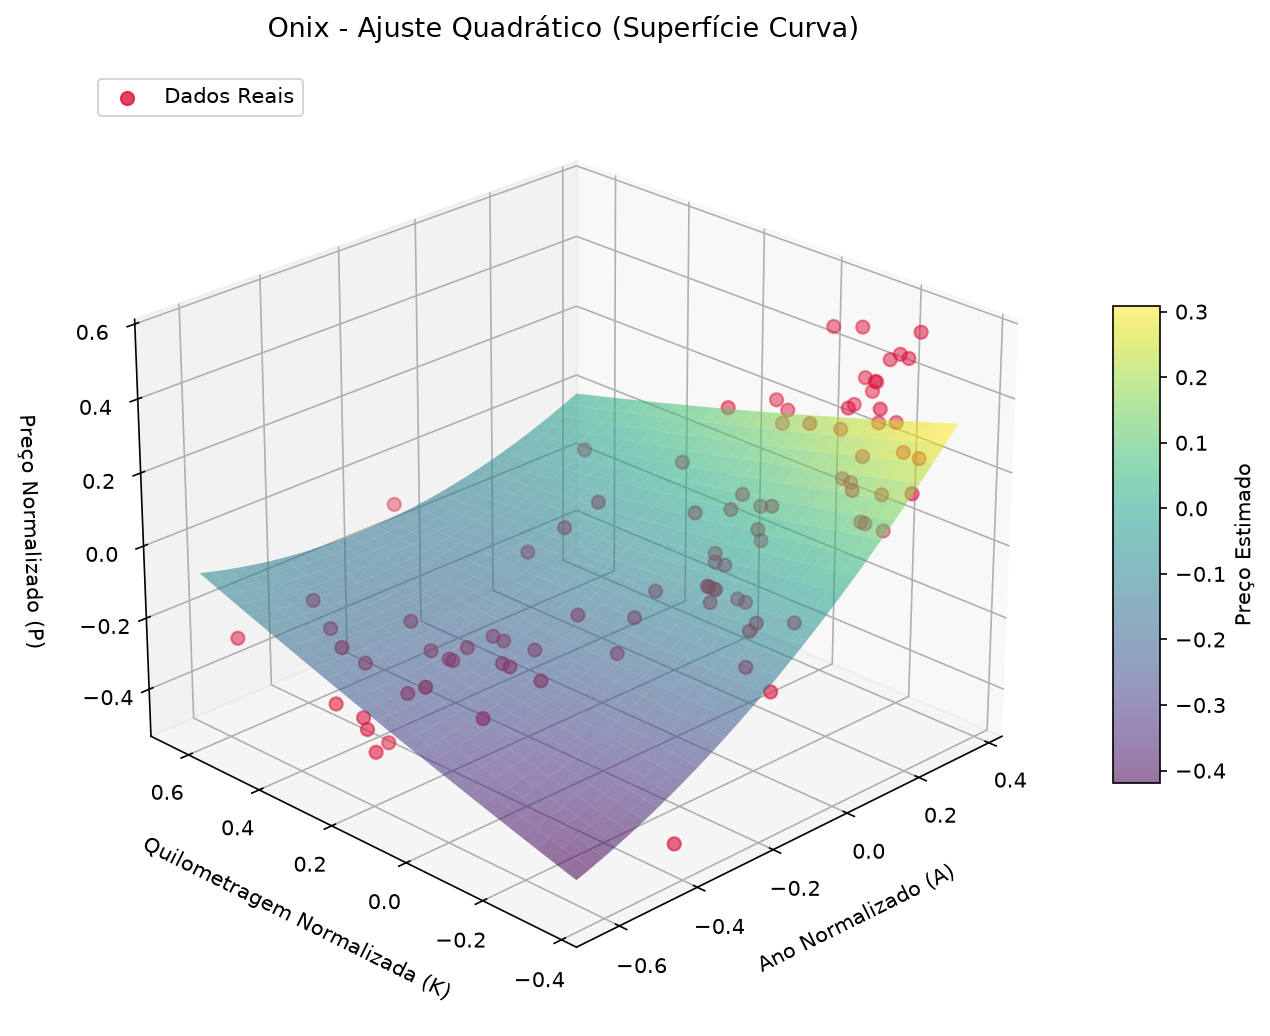
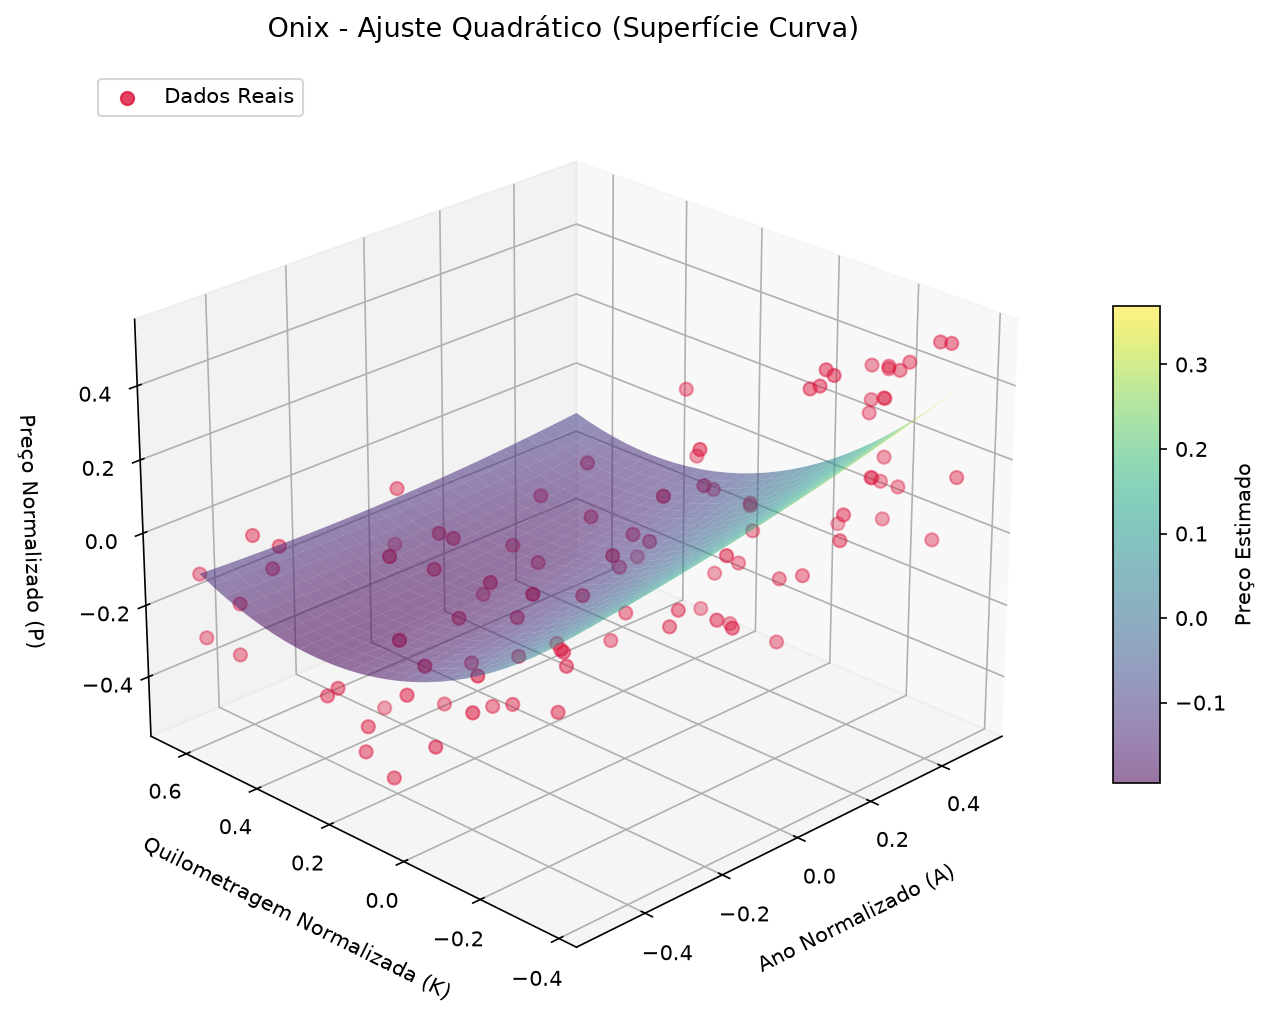
Dados novos do Onix (100 anúncios) e ajustes no backend
- dados/onix.csv com os 100 anúncios da planilha (2021-2025)
- gráficos do Onix refeitos com os dados novos
- grau passado como 1/2 em vez de 'lin'/'quad'
- upload recusa CSV com nome repetido (409)

diff --git a/backend/relatorio.py b/backend/relatorio.py
@@ -27,7 +27,8 @@ from preco_de_mercado import desnormalize_values, estima_preco
 
 RAIZ = Path(__file__).resolve().parent.parent
 PASTA_GRAFICOS = RAIZ / "graficos"
-MODELOS = [('lin', 'linear'), ('quad', 'quadrático')]
+# (grau do polinômio, sufixo dos arquivos de gráfico, nome do modelo)
+MODELOS = [(1, 'lin', 'linear'), (2, 'quad', 'quadrático')]
 
 
 def moeda(valor):
@@ -79,20 +80,22 @@ def normaliza_matriz(dados):
     return data
 
 
-def matriz_planejamento(A, K, tipo):
-    """Matriz X do ajuste: [1 | A | K] no linear e [1 | A | K | A² | AK | K²] no quadrático."""
-    if tipo == 'lin':
-        return np.column_stack((np.ones_like(A), A, K))
-    return np.column_stack((np.ones_like(A), A, K, A**2, A * K, K**2))
+def matriz_planejamento(A, K, grau):
+    """
+    Matriz X do ajuste de grau n, na mesma ordem de mq.solucao_sistema:
+    [1 | A | K] no grau 1, [1 | A | K | A² | AK | K²] no grau 2, e assim por diante.
+    """
+    colunas = [(A ** (d - j)) * (K ** j) for d in range(grau + 1) for j in range(d + 1)]
+    return np.column_stack(colunas)
 
 
-def depreciacao(ano, km, c, tipo, data):
+def depreciacao(ano, km, c, grau, data):
     """Queda de preço (R$ e %) do carro (ano, km) com +8000 km, +10000 km e 1 ano a mais de idade."""
-    atual = estima_preco(ano, km, c, tipo, data)
+    atual = estima_preco(ano, km, c, grau, data)
     quedas = {
-        '+8000 km': atual - estima_preco(ano, km + 8000, c, tipo, data),
-        '+10000 km': atual - estima_preco(ano, km + 10000, c, tipo, data),
-        '1 ano mais velho': atual - estima_preco(ano - 1, km, c, tipo, data),
+        '+8000 km': atual - estima_preco(ano, km + 8000, c, grau, data),
+        '+10000 km': atual - estima_preco(ano, km + 10000, c, grau, data),
+        '1 ano mais velho': atual - estima_preco(ano - 1, km, c, grau, data),
     }
     return atual, {nome: (queda, 100 * queda / atual) for nome, queda in quedas.items()}
 
@@ -102,7 +105,7 @@ def relatorio(dados, nome='carro', ano_carro=None, km_carro=None, pasta=PASTA_GR
     Roda os itens 2 a 7 do projeto para a matriz `dados` (colunas: ano, km, preco).
 
     ano_carro, km_carro -> carro avaliado nos itens 6 e 7. Se omitidos, usa o carro médio da amostra.
-    Retorna um dicionário com os resultados de cada modelo ('lin' e 'quad').
+    Retorna um dicionário com os resultados de cada modelo, indexado pelo grau (1 e 2).
     """
     dados = np.asarray(dados, dtype=float)
     pasta = Path(pasta)
@@ -141,13 +144,13 @@ def relatorio(dados, nome='carro', ano_carro=None, km_carro=None, pasta=PASTA_GR
         descricao_carro = f"ano-modelo {ano_formatado(ano_carro)} com {inteiro(km_carro)} km"
 
     resultados = {}
-    for tipo, nome_modelo in MODELOS:
+    for grau, sufixo, nome_modelo in MODELOS:
         print("\n" + "-" * largura)
         print(f"{'MODELO ' + nome_modelo.upper():^72}")
         print("-" * largura)
 
         # PASSO 3: sistema linear (equações normais) e solução
-        M, b, c = mq.solucao_sistema(data['ano'], data['km'], data['preco'], tipo)
+        M, b, c = mq.solucao_sistema(data['ano'], data['km'], data['preco'], grau)
         print("\nPASSO 3 - SISTEMA DE EQUAÇÕES NORMAIS")
         print("  (X^T X) c = X^T y")
         print("  M = X^T X")
@@ -156,11 +159,11 @@ def relatorio(dados, nome='carro', ano_carro=None, km_carro=None, pasta=PASTA_GR
         print(f"  {vetor_matriz(b)}")
         print(f"\n  Coeficientes c")
         print(f"  {vetor_matriz(c)}")
-        mq.plotar_modelo_3d(data['ano'], data['km'], data['preco'], c, tipo, titulo=nome,
-                            arquivo=pasta / f"{prefixo}_superficie_{tipo}.png")
+        mq.plotar_modelo_3d(data['ano'], data['km'], data['preco'], c, grau, titulo=nome,
+                            arquivo=pasta / f"{prefixo}_superficie_{sufixo}.png")
 
         # Preço estimado de cada anúncio, em reais
-        X = matriz_planejamento(data['ano'], data['km'], tipo)
+        X = matriz_planejamento(data['ano'], data['km'], grau)
         estimado = desnormalize_values(X @ c, data['preco_stats'])
 
         # PASSO 4: REQM
@@ -183,10 +186,10 @@ def relatorio(dados, nome='carro', ano_carro=None, km_carro=None, pasta=PASTA_GR
         print(f"    Estimado:  {moeda(estimado[i])}")
         print(f"    Ágio:      {percentual(agio[i])}")
         mq.plotar_agio(agio, f'{nome} - modelo {nome_modelo}',
-                       arquivo=pasta / f"{prefixo}_agio_{tipo}.png")
+                       arquivo=pasta / f"{prefixo}_agio_{sufixo}.png")
 
         # PASSOS 6 e 7: preço do carro escolhido e depreciação
-        atual, quedas = depreciacao(ano_carro, km_carro, c, tipo, data)
+        atual, quedas = depreciacao(ano_carro, km_carro, c, grau, data)
         print("\nPASSO 6 - ESTIMATIVA DO VEÍCULO")
         print(f"  {descricao_carro}")
         print(f"  Preço estimado: {moeda(atual)}")
@@ -194,13 +197,14 @@ def relatorio(dados, nome='carro', ano_carro=None, km_carro=None, pasta=PASTA_GR
         for evento, (queda, pct) in quedas.items():
             print(f"  {evento:<17} queda de {moeda(queda):>16}  ({percentual(pct)})")
 
-        resultados[tipo] = {'c': c, 'M': M, 'b': b, 'reqm': reqm, 'agio': agio,
+        resultados[grau] = {'c': c, 'M': M, 'b': b, 'reqm': reqm, 'agio': agio,
                             'estimado': estimado, 'preco_atual': atual, 'depreciacao': quedas}
 
     melhor = min(resultados, key=lambda t: resultados[t]['reqm'])
     print("\n" + "=" * largura)
     print("RESUMO")
-    print(f"  Menor REQM: modelo {dict(MODELOS)[melhor]}")
+    nomes = {g: nome_modelo for g, _, nome_modelo in MODELOS}
+    print(f"  Menor REQM: modelo {nomes[melhor]}")
     print(f"  Gráficos salvos em: {pasta}")
     print("=" * largura)
 
@@ -221,8 +225,8 @@ def compara_depreciacao(carros):
     print("Modelo linear - carro médio de cada amostra")
     print("=" * largura)
     for nome, res in carros:
-        data, c = res['data'], res['lin']['c']
-        _, quedas = depreciacao(data['ano_stats'][2], data['km_stats'][2], c, 'lin', data)
+        data, c = res['data'], res[1]['c']
+        _, quedas = depreciacao(data['ano_stats'][2], data['km_stats'][2], c, 1, data)
         km_queda, km_pct = quedas['+10000 km']
         ano_queda, ano_pct = quedas['1 ano mais velho']
         print(f"\n  {nome}")
@@ -240,6 +244,6 @@ if __name__ == "__main__":
         relatorio(carrega_csv(caminho), caminho.stem, ano, km)
     else:
         # Projeto completo: Onix (carro do Bob) e Dolphin Mini (veículo elétrico)
-        onix = relatorio(carrega_csv(RAIZ / "dados" / "onix_bruto.csv"), 'Onix', ano_carro=2022, km_carro=48000)
-        dolphin = relatorio(carrega_csv(RAIZ / "dados" / "dolphin_mini_bruto.csv"), 'Dolphin Mini')
+        onix = relatorio(carrega_csv(RAIZ / "dados" / "onix.csv"), 'Onix', ano_carro=2022, km_carro=48000)
+        dolphin = relatorio(carrega_csv(RAIZ / "dados" / "dolphin_mini.csv"), 'Dolphin Mini')
         compara_depreciacao([('Onix', onix), ('Dolphin Mini', dolphin)])

diff --git a/backend/test-back.py b/backend/test-back.py
@@ -6,12 +6,12 @@ print("Passo 2 -> Normalizando os valores do onix...")
 onix_data = preco_de_mercado.get_onix_normalizado()
 
 print("Passo 3 -> Estimando os coeficientes do modelo (linear e quadratico)")
-[M_lin, b_lin, c_lin] = mq.solucao_sistema(onix_data['ano'], onix_data['km'], onix_data['preco'], 'lin')
+[M_lin, b_lin, c_lin] = mq.solucao_sistema(onix_data['ano'], onix_data['km'], onix_data['preco'], 1)
 print(f"Coeficientes do modelo linear: {M_lin}, {b_lin}, {c_lin}")
-mq.plotar_modelo_3d(onix_data['ano'], onix_data['km'], onix_data['preco'], c_lin, 'lin')
-[M_quad, b_quad, c_quad] = mq.solucao_sistema(onix_data['ano'], onix_data['km'], onix_data['preco'], 'quad')
+mq.plotar_modelo_3d(onix_data['ano'], onix_data['km'], onix_data['preco'], c_lin, 1)
+[M_quad, b_quad, c_quad] = mq.solucao_sistema(onix_data['ano'], onix_data['km'], onix_data['preco'], 2)
 print(f"Coeficientes do modelo quadratico: {M_quad}, {b_quad}, {c_quad}")
-mq.plotar_modelo_3d(onix_data['ano'], onix_data['km'], onix_data['preco'], c_quad, 'quad')
+mq.plotar_modelo_3d(onix_data['ano'], onix_data['km'], onix_data['preco'], c_quad, 2)
 
 print("Determinando os valores estimados...")
 
@@ -62,25 +62,25 @@ print("Passo 6 -> Estimando o preço do carro do Bob")
 ano_test = 2022
 km_test = 48000
 
-preco_estimado_test_lin = preco_de_mercado.estima_preco(ano_test, km_test, c_lin, 'lin', onix_data)
-preco_estimado_test_quad = preco_de_mercado.estima_preco(ano_test, km_test, c_quad, 'quad', onix_data)
+preco_estimado_test_lin = preco_de_mercado.estima_preco(ano_test, km_test, c_lin, 1, onix_data)
+preco_estimado_test_quad = preco_de_mercado.estima_preco(ano_test, km_test, c_quad, 2, onix_data)
 
 print(f"Preço estimado para o carro com ano {ano_test} e km {km_test} (modelo linear): R$ {preco_estimado_test_lin:.2f}")
 print(f"Preço estimado para o carro com ano {ano_test} e km {km_test} (modelo quadrático): R$ {preco_estimado_test_quad:.2f}")
 
 print("Passo 7 -> Depreciação")
-for tipo, c in [('lin', c_lin), ('quad', c_quad)]:
-    atual = preco_de_mercado.estima_preco(2022, 48000, c, tipo, onix_data)
+for grau, c in [(1, c_lin), (2, c_quad)]:
+    atual = preco_de_mercado.estima_preco(2022, 48000, c, grau, onix_data)
 
-    dep_8000 = atual - preco_de_mercado.estima_preco(2022, 56000, c, tipo, onix_data)
-    dep_10000 = atual - preco_de_mercado.estima_preco(2022, 58000, c, tipo, onix_data)
-    dep_1ano = atual - preco_de_mercado.estima_preco(2021, 48000, c, tipo, onix_data)
-    print(f"[{tipo}] +8000 km: R$ {dep_8000:.2f} ({100*dep_8000/atual:.2f}%)")
-    print(f"[{tipo}] +10000 km: R$ {dep_10000:.2f} ({100*dep_10000/atual:.2f}%) | 1 ano mais velho: R$ {dep_1ano:.2f} ({100*dep_1ano/atual:.2f}%)")
+    dep_8000 = atual - preco_de_mercado.estima_preco(2022, 56000, c, grau, onix_data)
+    dep_10000 = atual - preco_de_mercado.estima_preco(2022, 58000, c, grau, onix_data)
+    dep_1ano = atual - preco_de_mercado.estima_preco(2021, 48000, c, grau, onix_data)
+    print(f"[grau {grau}] +8000 km: R$ {dep_8000:.2f} ({100*dep_8000/atual:.2f}%)")
+    print(f"[grau {grau}] +10000 km: R$ {dep_10000:.2f} ({100*dep_10000/atual:.2f}%) | 1 ano mais velho: R$ {dep_1ano:.2f} ({100*dep_1ano/atual:.2f}%)")
 
 print("Passo 9 -> Veículo elétrico (Dolphin Mini)")
 dolphin_data = preco_de_mercado.get_dolphin_normalizado()
-[M_dol, b_dol, c_dol] = mq.solucao_sistema(dolphin_data['ano'], dolphin_data['km'], dolphin_data['preco'], 'lin')
+[M_dol, b_dol, c_dol] = mq.solucao_sistema(dolphin_data['ano'], dolphin_data['km'], dolphin_data['preco'], 1)
 print(f"Coeficientes do Dolphin (linear): {c_dol}")
 
 X_dol = np.column_stack((np.ones_like(dolphin_data['ano']), dolphin_data['ano'], dolphin_data['km']))
@@ -95,9 +95,9 @@ print(f"REQM Dolphin: R$ {reqm_dol:.2f}")
 for nome, data, c in [('Onix', onix_data, c_lin), ('Dolphin Mini', dolphin_data, c_dol)]:
     ano_ref = data['ano_stats'][2]
     km_ref = data['km_stats'][2]
-    atual = preco_de_mercado.estima_preco(ano_ref, km_ref, c, 'lin', data)
+    atual = preco_de_mercado.estima_preco(ano_ref, km_ref, c, 1, data)
 
-    dep_10000 = atual - preco_de_mercado.estima_preco(ano_ref, km_ref + 10000, c, 'lin', data)
-    dep_1ano = atual - preco_de_mercado.estima_preco(ano_ref - 1, km_ref, c, 'lin', data)
+    dep_10000 = atual - preco_de_mercado.estima_preco(ano_ref, km_ref + 10000, c, 1, data)
+    dep_1ano = atual - preco_de_mercado.estima_preco(ano_ref - 1, km_ref, c, 1, data)
 
     print(f"[{nome}] +10000 km: R$ {dep_10000:.2f} ({100*dep_10000/atual:.2f}%) | 1 ano mais velho: R$ {dep_1ano:.2f} ({100*dep_1ano/atual:.2f}%)")

diff --git a/backend/preco_de_mercado.py b/backend/preco_de_mercado.py
@@ -52,19 +52,19 @@ def normalize_values(csv_file, parameter_list):
 #Funcao pra testar a API
 def get_onix_normalizado():
     """
-    Retorna os valores normalizados do arquivo 'onix_bruto.csv' para os parâmetros 'ano', 'preco' e 'km'.
+    Retorna os valores normalizados do arquivo 'onix.csv' para os parâmetros 'ano', 'preco' e 'km'.
     """
-    return normalize_values('onix_bruto.csv', ['ano', 'preco', 'km'])
+    return normalize_values('onix.csv', ['ano', 'preco', 'km'])
 
 def get_dolphin_normalizado():
     """
-    Retorna os valores normalizados do arquivo 'dolphin_mini_bruto.csv' para os parâmetros 'ano', 'preco' e 'km'.
+    Retorna os valores normalizados do arquivo 'dolphin_mini.csv' para os parâmetros 'ano', 'preco' e 'km'.
     """
-    return normalize_values('dolphin_mini_bruto.csv', ['ano', 'preco', 'km'])
+    return normalize_values('dolphin_mini.csv', ['ano', 'preco', 'km'])
 
 def normalize_test_values(ano, km, data):
     """
-    Normaliza os valores de ano e km fornecidos com base nos valores normalizados do arquivo 'onix_bruto.csv'.
+    Normaliza os valores de ano e km fornecidos com base nos valores normalizados do arquivo 'onix.csv'.
     Retorna os valores normalizados de ano e km.
     """
     

diff --git a/backend/minimos_quadrados.py b/backend/minimos_quadrados.py
@@ -55,11 +55,6 @@ def solucao_sistema(A, K, P, grau):
     K = np.asarray(K, dtype=float)
     P = np.asarray(P, dtype=float)
 
-    if grau == "lin":
-        grau = 1
-    elif grau == "quad":
-        grau = 2
-
     if not isinstance(grau, int) or grau < 0:
         raise ValueError("O parâmetro 'grau' deve ser um número inteiro maior ou igual a 0.")
 
@@ -92,11 +87,6 @@ def plotar_modelo_3d(A, K, P, c, grau, titulo='', arquivo=None):
         titulo -> (opcional) texto extra no título, ex.: nome do carro
         arquivo -> (opcional) caminho para salvar a imagem; se omitido, abre a janela do gráfico
     """
-    if grau == "lin":
-        grau = 1
-    elif grau == "quad":
-        grau = 2
-
     if not isinstance(grau, int) or grau < 0:
         raise ValueError("O parâmetro 'grau' deve ser um número inteiro maior ou igual a 0.")
 

diff --git a/backend/test_app.py b/backend/test_app.py
@@ -89,6 +89,16 @@ class BackendTest(unittest.TestCase):
 
             self.assertEqual(response.status_code, 201)
             self.assertIn(csv_name, list_csv_files())
+
+            # Subir de novo com o mesmo nome não pode sobrescrever o arquivo
+            repetido = (BytesIO(b"ano,km,preco\n2020,1,1\n"), csv_name)
+            response = self.client.post(
+                "/api/dados/upload",
+                data={"file": repetido},
+                content_type="multipart/form-data",
+            )
+            self.assertEqual(response.status_code, 409)
+            self.assertIn("90000", file_path.read_text(encoding="utf-8"))
         finally:
             if file_path.is_file():
                 file_path.unlink()

diff --git a/backend/app.py b/backend/app.py
@@ -292,6 +292,12 @@ def upload_csv():
         return jsonify({"error": "O CSV nao possui linhas de dados."}), 400
 
     file_path = DATA_DIR / filename
+    # Não sobrescreve os dados existentes (ex.: subir outro 'onix.csv' apagaria o original)
+    if file_path.exists():
+        return jsonify({
+            "error": f"Ja existe um arquivo chamado {filename}. Renomeie o CSV e tente de novo."
+        }), 409
+
     file_path.write_text(text, encoding="utf-8")
     calculation_cache.clear()
 
